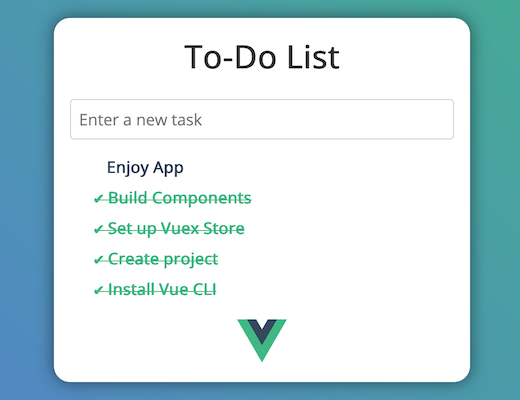
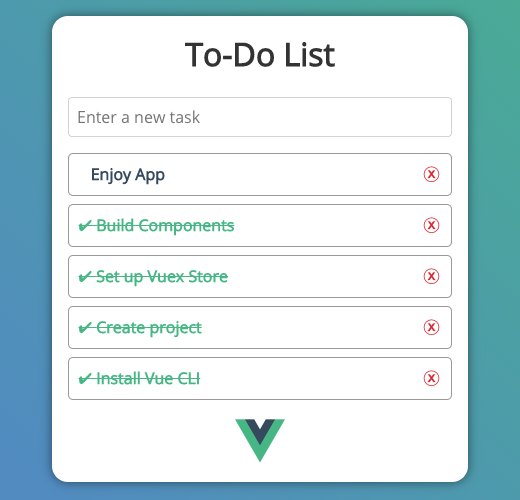
Updated with changes to TodoList component

diff --git a/blog/building-todo-app-vue-vuex.md b/blog/building-todo-app-vue-vuex.md
@@ -317,39 +317,56 @@ Now for its template. Between the `<template>` tags, we can write the following:
     :class="{ completed: todo.completed }"
     class="task"
     @click="toggleTodo(todo.id)"
-    @dblclick="deleteTodo(todo.id)"
   >
     {{ todo.task }}
+    <span class="delete" @click="deleteTodo(todo.id)">ⓧ</span>
   </li>
 </ul>
 ```
 
-The list gets created by the `v-for` directive in the `<li>` tags, looping through the `todos` array. We'll set up our methods for toggling/deleting to the click and double-click events, respectively. Also a "completed" class is added to the list item if its completed property is true.
+The list gets created by the `v-for` directive in the `<li>` tags, looping through the `todos` array. We'll set up our methods for toggling/deleting to the click events of the list item & .delete span, respectively. Also a "completed" class is added to the list item if its completed property is true.
 
 For styles, we can add the following between the `<style>` tags:
 
 ```css
 .tasks {
-  padding-left: 1.5rem;
+  padding: 0;
   list-style-type: none;
 }
+
 .task {
+  padding: 10px;
   margin-bottom: 0.5rem;
+  border: 0.5px solid #999;
+  border-radius: 5px;
   color: #34495e;
   font-weight: bold;
 }
+
 .task:before {
   content: "\2002";
 }
+
 .task:hover {
   cursor: pointer;
 }
+
 .completed {
   text-decoration: line-through;
   color: #41b883;
 }
+
 .completed:before {
   content: "\2714";
+}
+
+.delete {
+  display: block;
+  float: right;
+  color: #d22;
+  width: 1.25rem;
+  height: 1.25rem;
+  text-align: center;
 }
 ```
 
@@ -510,7 +527,7 @@ And we should be done! Go ahead and check the URL where the development server i
 
 You should be able to type a new task into the text box and it should appear in the list below it when the Enter/Return key is pressed.
 
-When the list item is clicked once, its color should change to green and get a strike-through. Double-clicking a list item should remove it from the list.
+When the list item is clicked once, its color should change to green and get a strike-through. Clicking the ⓧ icon on an item should remove it from the list.
 
 ![Vue To-Do App Finished](/assets/images/blog/vue-todo-finished.png)
 
